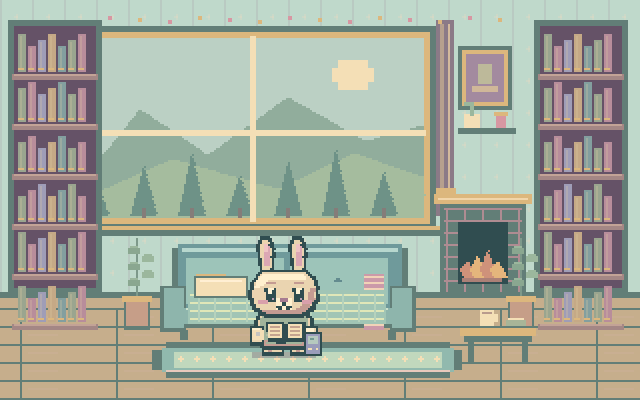
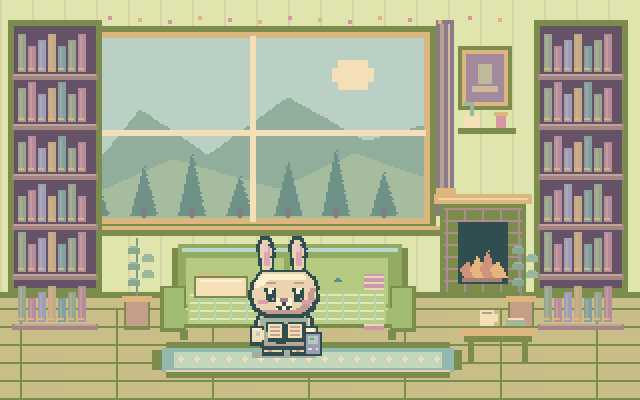
Warm DiaBuddy preview with sunny yellow and leafy green colors

diff --git a/diabuddy/dist/theme.css b/diabuddy/dist/theme.css
@@ -1,15 +1,18 @@
 /* DiaBuddy · meadow, sky and sun. Shared across child, parent and arcade UI. */
-:root{--ink:#254a50;--muted:#506a70;--purple:#287579;--green:#e3f1df;--line:#bfd6ce;--sage:#91bd9f;--teal:#287579;--sky:#d8ebf6;--cream:#fff9e9;--sun:#f4d383;--peach:#f3cead;--lavender:#e3dff0}
-body{background:radial-gradient(ellipse at 90% 0,#d9eff5,transparent 45%),#fbfaf1;color:var(--ink)}aside{background:linear-gradient(170deg,#dfefdc,#deedf1 70%,#fff0cf);border-color:var(--line)}
-.brand{display:flex;align-items:center;gap:10px;color:#235b61;font-size:25px;letter-spacing:-1px}.brandmark{width:36px;height:36px;image-rendering:pixelated;flex:none}.tagline{color:#435f65;font-size:12px;letter-spacing:0;margin-top:7px}.branddot{display:none}
-nav button{display:flex;align-items:center;gap:13px;border-radius:10px;color:#3c6068;min-height:48px;border:2px solid transparent}nav button.active,nav button[aria-current=page]{background:#c0dfce;color:#204f55;border-color:#62978c;box-shadow:inset 4px 0 #287579}nav button:hover{background:#fff9e9}.nav-icon{display:inline-block;width:23px;height:23px;flex:none}.avatar{background:#d3e9ed;color:#285b67;display:grid;place-items:center}.kind-note,.kind-note p,.profile{color:#49666c}.profile{border-color:var(--line)}
-h1,h2,h3,.card-title,.world-top strong,.fitting-copy h2,.product-copy h3,.arcade-header h2,.arcade-cover h2,dialog h2,.personal-range h2,.journal-layout .prompt,.connection h3{color:#28565f}p,.greeting p,.helper,.tiny,.field-label,.fitting-copy p,.product-copy p,.arcade-cover small,.arcade-header small,.arcade-cover b,.eyebrow,.timer-card p,.timer-card .card-title,.item-state,.owned-toggle,.product-copy small,.shop-banner p,.range-fields label,.logged-tags span,.entry h4{color:#50676e}
-.card{border:1px solid var(--line);border-radius:14px;box-shadow:3px 4px 0 #a2c1b52b;background:#fffdf5}.card p{line-height:1.7}.world-top{background:linear-gradient(100deg,#dfefdc,#dceef4)}.world-top small,.status,.status i,.world-bottom{color:#486a6c}.world-bottom,.activity-tray{background:#f6f5e8}.scene{background:#355c61}.scene-caption{background:#fff1cc;color:#365a60;border-color:#729a94}.pet-bubble{color:#365a60;border-color:#729a94}.bank{background:#ffe6a1;color:#664a22;border-color:#d5b36a;border-radius:10px}
-.primary{background:#287579;color:#fffef2;border-radius:9px;box-shadow:0 3px 0 #1a535a;font-weight:600}.primary:hover{background:#1f626c;filter:none}.primary:disabled{opacity:.6;cursor:not-allowed}.secondary,.tabs button,.activity-tray button,.choice{background:#f4f8ee;color:#305a64;border-color:#b5cfc7;border-radius:9px}.secondary:hover{background:#dceef0}.tabs .selected,.choice.selected,.activity-tray button.selected{background:#cae4da;color:#244e56;border-color:#568a7e}.text-link{color:#236c76;text-decoration:underline;text-underline-offset:3px}.timer-card{background:linear-gradient(125deg,#fff2cd,#e3f1dc);border-color:#d2d9a6}.notice{background:#fff2ce;color:#655332;border-color:#dbc084}
-.timer-card h2,.timer-card p{color:#4d6354}.shop-banner{background:linear-gradient(105deg,#d3ece1,#dcecf4 65%,#fff1c9)}.shop-banner span{color:#3c6970}.journal-history{background:#f5f8ee}.fitting-room,.pixel-product,.meal-card{background:#fff8e9}.fitting-room canvas{border-color:#648f89}.pixel-thumb{background:#dcebdc}.pixel-thumb span{background:#244f57;color:#fff3d1}.outfit-slots span,.logged-tags span{background:#e2eddf;color:#3d665b}.outfit-slots button{color:#315f62}.activity-tray button{min-height:44px}.meal-components{display:flex;gap:5px;flex-wrap:wrap;margin:12px 0}.meal-components span{border-radius:6px;background:#e1efdd;color:#385e52;padding:5px 7px;font-size:11px}.ai-tag{background:#deedf5;color:#345f70}.meal-heading p,.meal-ai-status{color:#50676e}.meal-examples{display:flex;flex-wrap:wrap;gap:6px}.meal-examples button{min-height:36px;color:#35626b;background:#edf3e7;border:1px solid #bfd3c2;border-radius:8px;padding:6px}.meal-input-row{flex-wrap:wrap}.meal-input-row input{min-width:0}.meal-result-inner{flex-wrap:wrap}.meal-result-inner canvas{max-width:100%;image-rendering:pixelated}.shared-meal small{color:#50676e}
-input:not([type=range]):not([type=checkbox]),textarea,select{background:#fffef5;color:#294f55;border-color:#b5cfc7;border-radius:8px}input[type=range],input[type=checkbox]{accent-color:#287579}.field-label input{display:block;width:100%;padding:10px;margin-top:7px}.range-fields input{color:#28565f;border-color:#adc9bd;background:#fffef5}.range-fields small{color:#50676e}.portal-switch,.portal-switch select{color:#315f62}.portal-switch select{background:#e3f0e3}.routine-note,.routine-log{color:#48675d!important}.routine-badge,.routine-trend div{background:#e4f1e2;color:#345c51}.routine-error,#range-error,.dex-error{color:#964622}.dex-note,.dex-timestamp{color:#50676e}.routine-grid>.card:nth-child(3n+2){border-top:4px solid #8dbdd1}.routine-grid>.card:nth-child(3n+1){border-top:4px solid #8fba9a}.routine-grid>.card:nth-child(3n){border-top:4px solid #e5ba73}
-#arcade-stage{background:#f6f8e9;border-color:#98bbb0;box-shadow:5px 5px #d9e5d5}.arcade-cover{background:#f9f7e8}.arcade-hud,.arcade-toolbar,.arcade-overlay,.arcade-overlay>div{color:#315760;background:#fffae9}.arcade-overlay h2{color:#28565f}.arcade-chapters button.selected{background:#d6e9dc;color:#315760}.arcade-tip,.arcade-score,.arcade-help{color:#50676e}.arcade-frame{border-color:#60847e}
-dialog{background:#fffcf0;border-color:#aacbc0}.close{color:#49666c}.breadcrumb b,.greeting .eyebrow{color:#37656b}footer{color:#50676e}#toast{background:#285f68}.progress{background:#d4e6d9}.progress div{background:#549a8b}.settings-connection{margin-top:22px}a:focus-visible,button:focus-visible,input:focus-visible,select:focus-visible,textarea:focus-visible{outline:3px solid #23748e;outline-offset:3px}
+:root{--ink:#354b2b;--muted:#59644b;--purple:#4f712e;--green:#e6efc8;--line:#c9d69d;--sage:#a6bf72;--teal:#4f712e;--sky:#f5ebad;--cream:#fffbea;--sun:#f3d46b;--peach:#f4df9c;--lavender:#e3dff0}
+body{background:radial-gradient(ellipse at 90% 0,#f6edb3,transparent 45%),#fbf9e9;color:var(--ink)}aside{background:linear-gradient(170deg,#e3edb5,#f4eaa9 70%,#fff0ac);border-color:var(--line)}
+.brand{display:flex;align-items:center;gap:10px;color:#42602d;font-size:25px;letter-spacing:-1px}.brandmark{width:36px;height:36px;image-rendering:pixelated;flex:none}.tagline{color:#53613e;font-size:12px;letter-spacing:0;margin-top:7px}.branddot{display:none}
+nav button{display:flex;align-items:center;gap:13px;border-radius:10px;color:#52653b;min-height:48px;border:2px solid transparent}nav button.active,nav button[aria-current=page]{background:#dbe99c;color:#3c5425;border-color:#8ba34d;box-shadow:inset 4px 0 #4f712e}nav button:hover{background:#fffbea}.nav-icon{display:inline-block;width:23px;height:23px;flex:none}.avatar{background:#f5e8a6;color:#536a30;display:grid;place-items:center}.kind-note,.kind-note p,.profile{color:#5d6849}.profile{border-color:var(--line)}
+h1,h2,h3,.card-title,.world-top strong,.fitting-copy h2,.product-copy h3,.arcade-header h2,.arcade-cover h2,dialog h2,.personal-range h2,.journal-layout .prompt,.connection h3{color:#485f2c}p,.greeting p,.helper,.tiny,.field-label,.fitting-copy p,.product-copy p,.arcade-cover small,.arcade-header small,.arcade-cover b,.eyebrow,.timer-card p,.timer-card .card-title,.item-state,.owned-toggle,.product-copy small,.shop-banner p,.range-fields label,.logged-tags span,.entry h4{color:#5d674b}
+.card{border:1px solid var(--line);border-radius:14px;box-shadow:3px 4px 0 #a2c1b52b;background:#fffdf5}.card p{line-height:1.7}.world-top{background:linear-gradient(100deg,#e3edb5,#f8edb5)}.world-top small,.status,.status i,.world-bottom{color:#5c7046}.world-bottom,.activity-tray{background:#f5f5d8}.scene{background:#53683e}.scene-caption{background:#fff0a8;color:#566537;border-color:#91a35c}.pet-bubble{color:#566537;border-color:#91a35c}.bank{background:#f9df79;color:#664a22;border-color:#c5a746;border-radius:10px}
+.primary{background:#4f712e;color:#fffef2;border-radius:9px;box-shadow:0 3px 0 #344b21;font-weight:600}.primary:hover{background:#405d25;filter:none}.primary:disabled{opacity:.6;cursor:not-allowed}.secondary,.tabs button,.activity-tray button,.choice{background:#f3f7da;color:#4d6334;border-color:#c0d093;border-radius:9px}.secondary:hover{background:#e6efbf}.tabs .selected,.choice.selected,.activity-tray button.selected{background:#e0ecaf;color:#40572b;border-color:#8aa04f}.text-link{color:#526f29;text-decoration:underline;text-underline-offset:3px}.timer-card{background:linear-gradient(125deg,#fff0a3,#e5edb8);border-color:#d2d9a6}.notice{background:#fff0ad;color:#655332;border-color:#dbc084}
+.timer-card h2,.timer-card p{color:#4d6354}.shop-banner{background:linear-gradient(105deg,#dfeab6,#f4e9a8 65%,#fff0a3)}.shop-banner span{color:#59703d}.journal-history{background:#f6f6db}.fitting-room,.pixel-product,.meal-card{background:#fffae0}.fitting-room canvas{border-color:#8c9d51}.pixel-thumb{background:#e2ecb5}.pixel-thumb span{background:#445e2e;color:#fff3d1}.outfit-slots span,.logged-tags span{background:#eaf0ca;color:#56733b}.outfit-slots button{color:#536a37}.activity-tray button{min-height:44px}.meal-components{display:flex;gap:5px;flex-wrap:wrap;margin:12px 0}.meal-components span{border-radius:6px;background:#edf3ca;color:#536d35;padding:5px 7px;font-size:11px}.ai-tag{background:#f6e9a7;color:#655d2d}.meal-heading p,.meal-ai-status{color:#5d674b}.meal-examples{display:flex;flex-wrap:wrap;gap:6px}.meal-examples button{min-height:36px;color:#536f36;background:#edf3ca;border:1px solid #bfd3c2;border-radius:8px;padding:6px}.meal-input-row{flex-wrap:wrap}.meal-input-row input{min-width:0}.meal-result-inner{flex-wrap:wrap}.meal-result-inner canvas{max-width:100%;image-rendering:pixelated}.shared-meal small{color:#5d674b}
+input:not([type=range]):not([type=checkbox]),textarea,select{background:#fffef5;color:#294f55;border-color:#c0d093;border-radius:8px}input[type=range],input[type=checkbox]{accent-color:#4f712e}.field-label input{display:block;width:100%;padding:10px;margin-top:7px}.range-fields input{color:#485f2c;border-color:#b8cb89;background:#fffef5}.range-fields small{color:#5d674b}.portal-switch,.portal-switch select{color:#536a37}.portal-switch select{background:#e6efbe}.routine-note,.routine-log{color:#48675d!important}.routine-badge,.routine-trend div{background:#e4f1e2;color:#345c51}.routine-error,#range-error,.dex-error{color:#964622}.dex-note,.dex-timestamp{color:#5d674b}.routine-grid>.card:nth-child(3n+2){border-top:4px solid #d2c268}.routine-grid>.card:nth-child(3n+1){border-top:4px solid #9eb769}.routine-grid>.card:nth-child(3n){border-top:4px solid #e7c55d}
+#arcade-stage{background:#f6f8e9;border-color:#98bbb0;box-shadow:5px 5px #d9e5d5}.arcade-cover{background:#f9f7e8}.arcade-hud,.arcade-toolbar,.arcade-overlay,.arcade-overlay>div{color:#315760;background:#fffae9}.arcade-overlay h2{color:#485f2c}.arcade-chapters button.selected{background:#d6e9dc;color:#315760}.arcade-tip,.arcade-score,.arcade-help{color:#5d674b}.arcade-frame{border-color:#60847e}
+dialog{background:#fffcf0;border-color:#bdcf90}.close{color:#5d6849}.breadcrumb b,.greeting .eyebrow{color:#5a713d}footer{color:#5d674b}#toast{background:#4d6833}.progress{background:#d4e6d9}.progress div{background:#549a8b}.settings-connection{margin-top:22px}a:focus-visible,button:focus-visible,input:focus-visible,select:focus-visible,textarea:focus-visible{outline:3px solid #5d742f;outline-offset:3px}
 @media(max-width:800px){aside{flex-wrap:wrap;gap:5px;padding:12px}.brand{font-size:23px}.tagline{display:block;width:100%;order:1;font-size:11px;margin:0 0 4px 46px}nav{order:2;display:flex;width:100%;margin:5px 0 0;overflow-x:auto;gap:5px}nav button{justify-content:center;padding:9px;min-width:46px}nav button span{display:none}.brandmark{width:32px;height:32px}.header-right{gap:8px}.meal-input-row input{flex:1 1 180px}.meal-input-row button{flex:1 1 140px}}
 /* Arcade selectors follow the existing shared game shell. */
-.arcade-viewport{background:#365e64;border-color:#60847e}.arcade-stats,.arcade-message{color:#446870}.arcade-piece-tray>button,.arcade-levels button{background:#eef4df;border-color:#b4cdbd;color:#315b61}.arcade-levels button.selected,.arcade-piece-tray>button.selected{background:#c8e3d5;border-color:#608b7e;color:#244e56}#arcade-overlay{background:#244f5866}#arcade-overlay>div{background:#fffaeaf5;border-color:#729e92;box-shadow:4px 4px #305b6344;color:#335b63}#arcade-overlay h3{color:#28565f}#arcade-overlay p,#arcade-overlay small{color:#50676e}.arcade-stars{color:#967026}
+.arcade-viewport{background:#365e64;border-color:#60847e}.arcade-stats,.arcade-message{color:#446870}.arcade-piece-tray>button,.arcade-levels button{background:#eef4df;border-color:#b4cdbd;color:#315b61}.arcade-levels button.selected,.arcade-piece-tray>button.selected{background:#c8e3d5;border-color:#608b7e;color:#40572b}#arcade-overlay{background:#244f5866}#arcade-overlay>div{background:#fffaeaf5;border-color:#729e92;box-shadow:4px 4px #305b6344;color:#335b63}#arcade-overlay h3{color:#485f2c}#arcade-overlay p,#arcade-overlay small{color:#5d674b}.arcade-stars{color:#967026}
+
+/* Sunroom finish: yellow surfaces, leafy selection states and dark olive text. */
+body{background:radial-gradient(ellipse at 90% 0,#f8eba3,transparent 52%),#fbf9e9}aside{background:linear-gradient(165deg,#e4edb6,#edf0c6 55%,#fff0a6)}.world-top{background:linear-gradient(100deg,#e1ebb0,#fff0af)}.timer-card{background:linear-gradient(125deg,#fff0a3,#e5edb8)}.shop-banner{background:linear-gradient(105deg,#dfeab6,#f8edb5 65%,#ffe79b)}.bank{background:#f4d56c;color:#5d4c20}.scene-caption{background:#fff0a8;color:#4e6132;border-color:#91a35c}.card{box-shadow:3px 4px 0 #a9b96c2b}.parent-medical-notice{background:#f6f4d9;border-color:#c9d69d}.parent-guidance summary,.parent-guidance a{color:#526b32}.routine-grid>.card:nth-child(3n+2){border-top-color:#dfc75b}.arcade-viewport{background:#53683e;border-color:#91a35c}.arcade-stats,.arcade-message{color:#5c7046}.arcade-piece-tray>button,.arcade-levels button{background:#f3f4cf;border-color:#c0d093;color:#4d6334}.arcade-levels button.selected,.arcade-piece-tray>button.selected{background:#e0ecaf;border-color:#8aa04f;color:#40572b}#arcade-overlay{background:#3c542566}#arcade-overlay>div{background:#fff9dff5;border-color:#91a35c;color:#536a37}.progress div{background:#91ac50}.outfit-slots span,.meal-components span{background:#edf3ca;color:#536d35}

diff --git a/diabuddy/dist/arcade/art.js b/diabuddy/dist/arcade/art.js
@@ -1,20 +1,20 @@
 (function(root){'use strict';
-const P={ink:'#2c4b54',shadow:'#4b7076',paper:'#f7e8bf',light:'#fff3d5',rose:'#e6b38b',lilac:'#91b9cc',mint:'#a3c79e',leaf:'#578575',gold:'#e3bd70',water:'#83b6cc'};
+const P={ink:'#3e522e',shadow:'#5a703d',paper:'#f7e8bf',light:'#fff3d5',rose:'#e6b38b',lilac:'#c6ce81',mint:'#afc47b',leaf:'#578575',gold:'#e8c65c',water:'#83b6cc'};
 const colors=['#8db8d0','#98bf9d','#e0ba75','#e7b294','#a3c6d6','#d6cd87','#b4acd0'];
 const glyphs={A:[14,17,17,31,17,17,17],B:[30,17,17,30,17,17,30],C:[14,17,16,16,16,17,14],D:[30,17,17,17,17,17,30],E:[31,16,16,30,16,16,31],F:[31,16,16,30,16,16,16],G:[14,17,16,23,17,17,15],H:[17,17,17,31,17,17,17],I:[14,4,4,4,4,4,14],J:[7,2,2,2,18,18,12],K:[17,18,20,24,20,18,17],L:[16,16,16,16,16,16,31],M:[17,27,21,21,17,17,17],N:[17,25,21,19,17,17,17],O:[14,17,17,17,17,17,14],P:[30,17,17,30,16,16,16],Q:[14,17,17,17,21,18,13],R:[30,17,17,30,20,18,17],S:[15,16,16,14,1,1,30],T:[31,4,4,4,4,4,4],U:[17,17,17,17,17,17,14],V:[17,17,17,17,17,10,4],W:[17,17,17,21,21,21,10],X:[17,17,10,4,10,17,17],Y:[17,17,10,4,4,4,4],Z:[31,1,2,4,8,16,31],'0':[14,17,19,21,25,17,14],'1':[4,12,4,4,4,4,14],'2':[14,17,1,2,4,8,31],'3':[30,1,1,14,1,1,30],'4':[2,6,10,18,31,2,2],'5':[31,16,16,30,1,1,30],'6':[14,16,16,30,17,17,14],'7':[31,1,2,4,8,8,8],'8':[14,17,17,14,17,17,14],'9':[14,17,17,15,1,1,14],'/':[1,2,2,4,8,8,16],'-':[0,0,0,31,0,0,0],'.':[0,0,0,0,0,6,6]};
 function tools(c){const r=(x,y,w,h,col)=>{c.fillStyle=col;c.fillRect(Math.round(x),Math.round(y),Math.round(w),Math.round(h))};return{r,box:(x,y,w,h,col,edge=P.ink)=>{r(x,y,w,h,edge);r(x+2,y+2,w-4,h-4,col)},text:(str,x,y,size=10,col=P.ink)=>{const scale=size>=14?2:1;let cursor=Math.round(x);for(const letter of String(str).toUpperCase()){const glyph=glyphs[letter];if(glyph)glyph.forEach((bits,row)=>{for(let bit=0;bit<5;bit++)if(bits&(1<<(4-bit)))r(cursor+bit*scale,y-7*scale+row*scale,scale,scale,col)});cursor+=6*scale}}}}
 function flower(r,x,y,color=P.rose){r(x,y,2,10,P.leaf);r(x-3,y-3,8,4,color);r(x-1,y-5,4,8,color);r(x,y-2,2,2,P.gold)}
-function backdrop(c,type,t=0){const {r,box,text}=tools(c);r(0,0,480,320,type==='bridge'?'#bccfc0':'#e6edda');r(0,217,480,103,type==='bridge'?'#9bad9c':'#a3bfb1');for(let y=232;y<320;y+=21){r(0,y,480,1,'#9b7f9333');for(let x=(y%3)*11;x<480;x+=69)r(x,y,1,21,'#9b7f9333')}
+function backdrop(c,type,t=0){const {r,box,text}=tools(c);r(0,0,480,320,type==='bridge'?'#bccfc0':'#f5efc3');r(0,217,480,103,type==='bridge'?'#9bad9c':'#b8c68b');for(let y=232;y<320;y+=21){r(0,y,480,1,'#9b7f9333');for(let x=(y%3)*11;x<480;x+=69)r(x,y,1,21,'#9b7f9333')}
 // Conservatory panes, cloud layers and hanging vines.
-box(17,22,446,179,'#bdd2cb','#587f79');for(let x=22;x<460;x+=55){r(x,25,2,169,'#efe0c8');r(x+2,25,1,169,'#a993a0')}r(20,84,440,3,'#efe0c8');r(20,144,440,3,'#efe0c8');r(20,197,440,4,'#d2b499');r(62,48,31,6,'#eef0d9');r(69,44,17,4,'#eef0d9');r(318,50,38,6,'#eef0d9');r(329,45,19,5,'#eef0d9');r(405,42,19,17,P.paper);r(402,47,25,7,P.paper);
+box(17,22,446,179,'#bdd2cb','#73894b');for(let x=22;x<460;x+=55){r(x,25,2,169,'#efe0c8');r(x+2,25,1,169,'#a993a0')}r(20,84,440,3,'#efe0c8');r(20,144,440,3,'#efe0c8');r(20,197,440,4,'#d2b499');r(62,48,31,6,'#eef0d9');r(69,44,17,4,'#eef0d9');r(318,50,38,6,'#eef0d9');r(329,45,19,5,'#eef0d9');r(405,42,19,17,P.paper);r(402,47,25,7,P.paper);
 for(let i=0;i<33;i++){const x=20+i*14,y=16+(i%4)*3;r(x,y,7,2,P.leaf);r(x+2,y-2,4,6,i%2?P.mint:'#8eab8d');if(i%6===0)flower(r,x,y+9,P.rose)}for(let i=0;i<19;i++){const x=26+i*24;r(x,8+(i%3)*2,2,2,i%2?P.gold:P.rose)}
 for(let x of [28,449]){box(x-9,203,24,27,'#c29c89',P.shadow);r(x-11,200,28,5,P.gold);r(x+2,164,2,36,P.leaf);for(let i=0;i<5;i++)r(x-7+(i%2)*10,168+i*6,11,4,i%2?P.mint:'#85a38e');flower(r,x,166,'#cfb4d6')}
 // A drawer bench, books, woven rug, and art supplies.
-box(58,264,365,21,'#a3bdac',P.shadow);r(61,266,359,2,P.paper);for(let x=62;x<420;x+=70){r(x,273,63,1,'#68978b');r(x+28,275,8,2,P.gold)}for(let x=69;x<417;x+=12)r(x,288,5,1,'#dfc4b5');r(67,294,350,1,'#dfc4b5');box(361,235,24,13,P.lilac,P.shadow);r(364,237,17,1,P.paper);r(360,247,27,4,P.gold);box(393,236,13,19,P.paper,P.shadow);r(396,240,7,2,P.mint);r(400,225,2,13,P.shadow);r(398,222,5,5,P.rose);text('DiaBuddy',350,309,8,'#4b7076');if(type==='block'){text('THE PATCHWORK CONSERVATORY',78,42,10,P.shadow)}
+box(58,264,365,21,'#b4c68c',P.shadow);r(61,266,359,2,P.paper);for(let x=62;x<420;x+=70){r(x,273,63,1,'#879f54');r(x+28,275,8,2,P.gold)}for(let x=69;x<417;x+=12)r(x,288,5,1,'#dfc4b5');r(67,294,350,1,'#dfc4b5');box(361,235,24,13,P.lilac,P.shadow);r(364,237,17,1,P.paper);r(360,247,27,4,P.gold);box(393,236,13,19,P.paper,P.shadow);r(396,240,7,2,P.mint);r(400,225,2,13,P.shadow);r(398,222,5,5,P.rose);text('DiaBuddy',350,309,8,'#5a703d');if(type==='block'){text('THE PATCHWORK CONSERVATORY',78,42,10,P.shadow)}
 if(type==='bridge'){r(0,0,480,320,'#c6d2bd');r(0,0,480,65,'#d7dcca');for(let i=0;i<16;i++){const x=i*32,h=19+(i*7)%25;r(x,64-h,33,h,'#a7beaa');r(x+7,56-h,18,8,'#a7beaa')}r(0,64,480,200,'#8faebe');for(let i=0;i<30;i++){const x=(i*31+Math.floor(t/150))%480,y=73+(i*17)%176;r(x,y,14,1,'#c4dad2');if(i%5===0){r(x+5,y+2,4,1,'#c4dad2')}}r(0,64,101,200,'#8fa68b');r(379,64,101,200,'#8fa68b');for(let x of [11,45,411,451]){r(x+9,16,7,61,'#8e7b78');r(x+10,18,2,53,'#b99c85');r(x,17,28,25,'#91ab94');r(x-5,29,37,16,'#91ab94');r(x+3,19,17,3,'#c3cda2');r(x-2,38,28,2,'#76978b')}for(let i=0;i<75;i++){const x=i%2?10+(i*23)%80:393+(i*17)%77,y=82+(i*19)%170;r(x,y,3,1,'#aabd9d');r(x+1,y-2,1,3,'#aabd9d');if(i%6===0){r(x-1,y+4,4,2,'#b6acaa');r(x,y+3,2,1,'#d9c4b2')}if(i%13===0)flower(r,x,y-3,'#d4adc0')}for(let i=0;i<12;i++){const x=12+(i%2)*45,y=90+Math.floor(i/2)*29;r(x,y,13,6,'#b8b4a0');r(x+2,y,9,1,'#d8cfb6');const xx=406+(i%2)*34;r(xx,y+3,12,5,'#b8b4a0');r(xx+2,y+3,8,1,'#d8cfb6')}for(let x of [14,443]){r(x+6,242,3,21,P.shadow);box(x,226,15,19,P.gold,P.shadow);r(x+3,229,9,12,P.paper);r(x+6,231,3,8,'#edc688')}box(128,22,227,29,P.paper,P.shadow);for(let x of [8,27,58,397,425,459]){r(x,119,3,12,P.leaf);flower(r,x,123,'#d5b6c9')}text('THE WILLOW CROSSING',150,42,10,P.shadow)}
 if(type==='sort'){text('THE LITTLE POTION GARDEN',99,42,10,P.shadow);for(let x=80;x<420;x+=30){r(x,61,6,8,P.lilac);r(x-1,69,8,2,P.paper)}r(72,73,340,3,P.shadow)}
 }
-function patch(c,x,y,size,color,index=0,alpha=1){const {r}=tools(c);c.save();c.globalAlpha=alpha;r(x+2,y+size-2,size-1,3,'#59436344');r(x,y,size,size,P.ink);r(x+1,y+1,size-2,size-2,color);r(x+2,y+2,size-4,2,'#fff0d577');r(x+2,y+3,2,size-6,'#fff0d555');r(x+size-3,y+3,2,size-4,'#4b707655');r(x+3,y+size-3,size-6,2,'#4b707655');for(let xx=5;xx<size-3;xx+=6){r(x+xx,y+5,2,1,'#fff0d577');r(x+xx+1,y+6,1,2,'#fff0d577')}if(size>=20){const xx=x+Math.floor(size/2),yy=y+Math.floor(size/2);r(xx-3,yy,7,1,'#fff0d555');r(xx,yy-3,1,7,'#fff0d555');r(xx-1,yy-1,3,3,index%2?'#8c7b9d77':'#efd5b577')}c.restore()}
+function patch(c,x,y,size,color,index=0,alpha=1){const {r}=tools(c);c.save();c.globalAlpha=alpha;r(x+2,y+size-2,size-1,3,'#59436344');r(x,y,size,size,P.ink);r(x+1,y+1,size-2,size-2,color);r(x+2,y+2,size-4,2,'#fff0d577');r(x+2,y+3,2,size-6,'#fff0d555');r(x+size-3,y+3,2,size-4,'#5a703d55');r(x+3,y+size-3,size-6,2,'#5a703d55');for(let xx=5;xx<size-3;xx+=6){r(x+xx,y+5,2,1,'#fff0d577');r(x+xx+1,y+6,1,2,'#fff0d577')}if(size>=20){const xx=x+Math.floor(size/2),yy=y+Math.floor(size/2);r(xx-3,yy,7,1,'#fff0d555');r(xx,yy-3,1,7,'#fff0d555');r(xx-1,yy-1,3,3,index%2?'#8c7b9d77':'#efd5b577')}c.restore()}
 function pet(c,x,y,eq={},action='Reading',frame=0){if(typeof root.pixelCharacter==='function'){c.save();c.translate(x,y);root.pixelCharacter(c,eq.Characters||'bunny',eq,action,frame);c.restore()}else{tools(c).text('COMPANION ART UNAVAILABLE',x,y,8,P.shadow)}}
 function baseCanvas(canvas){const c=canvas.getContext('2d');c.imageSmoothingEnabled=false;c.setTransform(canvas.width/480,0,0,canvas.height/320,0,0);c.clearRect(0,0,480,320);return c}
 function block(c,m,ui={},t=0){backdrop(c,'block',t);const {r,box,text}=tools(c),size=30,l=m.level,x0=Math.round(240-l.w*size/2),y0=68,occupied=root.ArcadeGames.block.occupied(m);box(x0-8,y0-8,l.w*size+16,l.h*size+16,'#87a9a4',P.shadow);for(let y=0;y<l.h;y++)for(let x=0;x<l.w;x++){const xx=x0+x*size,yy=y0+y*size;if(l.blocked.some(p=>p[0]===x&&p[1]===y)){patch(c,xx,yy,size,'#a29b9e');r(xx+4,yy+14,18,2,'#807c89');continue}r(xx,yy,size-1,size-1,'#cbd9c2');r(xx+2,yy+2,size-5,size-5,'#f0ebcd');r(xx+5,yy+6,1,1,'#8eac9b');const id=occupied[x+','+y];if(id){const p=l.pieces.find(p=>p.id===id);patch(c,xx,yy,size,colors[p.color%colors.length],p.color)}if(l.mark&&l.mark.x===x&&l.mark.y===y)flower(r,xx+15,yy+14,colors[l.pieces.findIndex(p=>p.id===l.mark.piece)])}

diff --git a/diabuddy/dist/pixel-engine.js b/diabuddy/dist/pixel-engine.js
@@ -59,7 +59,7 @@ if(action==='Watering plants'){r(7,leftY+2,11,8,I);r(8,leftY+3,9,6,'#8fb5ae');r(
 if(action==='Painting'||eq.Handheld){r(46,rightY-13,2,16,'#bd9e89');r(45,rightY-16,4,5,'#b59bc3');r(45,rightY-17,3,2,P.rose)}
 if(sleep){r(19,47,26,10,'#91afa2');for(let x=20;x<45;x+=4)r(x,48,1,8,'#c8d1b0');r(49,16-wave,5,1,P.cream);r(52,17-wave,1,1,P.cream);r(49,18-wave,5,1,P.cream)}
 if(celebrate){for(let i=0;i<5;i++){let xx=6+i*12,yy=10+(frame+i*3)%15;r(xx,yy,3,1,P.gold);r(xx+1,yy-1,1,3,P.gold)}}c.restore()}
-function paintWorld(canvas,world='cozy',eq={},glucose='range',activity='Idle',still=false,closeup=false,now=Date.now(),meal=null){const c=canvas.getContext('2d');c.imageSmoothingEnabled=false;c.clearRect(0,0,canvas.width,canvas.height);const scale=Math.max(1,Math.floor(Math.min(canvas.width/320,canvas.height/200)));c.save();c.translate(Math.floor((canvas.width-320*scale)/2),Math.floor((canvas.height-200*scale)/2));c.scale(scale,scale);const {r,poly}=pixelTools(c),P=PixelPalette;const theme=eq.Themes||'pastel';const dark=['academia','nighttheme','arcade'].includes(theme)||['night','space','cyber'].includes(world);let wall=dark?'#354c59':'#bfd9cb',floor=dark?'#5c7074':'#c6ae8c',wood=dark?'#293e49':'#627e77';if(theme==='cottagecore'){wall='#b6b79e';floor='#af927f';wood='#796b70'}if(theme==='nighttheme'){wall='#656880';floor='#77738c';wood='#49475f'}if(world==='sunset')wall='#d0a3a1';if(world==='snow')wall='#b0bbc8';if(world==='candy')wall='#dcb5c9';r(0,0,320,200,wall);r(0,147,320,53,floor);r(0,146,320,3,wood);for(let y=154;y<200;y+=9){r(0,y,320,1,wood);for(let x=(y%3)*10;x<320;x+=48){r(x,y,1,9,wood);r(x+4,y+4,15,1,'#d3b0a044')}}for(let x=0;x<320;x+=16){r(x,0,1,146,'#8b6c8622');for(let y=8;y<146;y+=16){r(x+7,y,2,1,'#eed9c044');r(x+8,y-1,1,3,'#eed9c044')}}
+function paintWorld(canvas,world='cozy',eq={},glucose='range',activity='Idle',still=false,closeup=false,now=Date.now(),meal=null){const c=canvas.getContext('2d');c.imageSmoothingEnabled=false;c.clearRect(0,0,canvas.width,canvas.height);const scale=Math.max(1,Math.floor(Math.min(canvas.width/320,canvas.height/200)));c.save();c.translate(Math.floor((canvas.width-320*scale)/2),Math.floor((canvas.height-200*scale)/2));c.scale(scale,scale);const {r,poly}=pixelTools(c),P=PixelPalette;const theme=eq.Themes||'pastel';const dark=['academia','nighttheme','arcade'].includes(theme)||['night','space','cyber'].includes(world);let wall=dark?'#354c59':'#e0e5ad',floor=dark?'#5c7074':'#c9bd88',wood=dark?'#293e49':'#7c8c4d';if(theme==='cottagecore'){wall='#b6b79e';floor='#af927f';wood='#796b70'}if(theme==='nighttheme'){wall='#656880';floor='#77738c';wood='#49475f'}if(world==='sunset')wall='#d0a3a1';if(world==='snow')wall='#b0bbc8';if(world==='candy')wall='#dcb5c9';r(0,0,320,200,wall);r(0,147,320,53,floor);r(0,146,320,3,wood);for(let y=154;y<200;y+=9){r(0,y,320,1,wood);for(let x=(y%3)*10;x<320;x+=48){r(x,y,1,9,wood);r(x+4,y+4,15,1,'#d3b0a044')}}for(let x=0;x<320;x+=16){r(x,0,1,146,'#8b6c8622');for(let y=8;y<146;y+=16){r(x+7,y,2,1,'#eed9c044');r(x+8,y-1,1,3,'#eed9c044')}}
 const frame=still||window.matchMedia?.('(prefers-reduced-motion: reduce)').matches?0:Math.floor(now/125)%8;
 // Architectural wall panels, panoramic view, curtains and exterior layers.
 r(35,13,183,102,wood);r(38,16,177,96,P.gold);r(41,19,171,90,dark?'#4f5274':'#bbd2cd');const beach=world==='beach',city=['cyber','rooftop'].includes(world),space=world==='space';
@@ -75,8 +75,8 @@ r(229,23,27,32,wood);r(231,25,23,28,P.gold);r(233,27,19,24,'#a38a9f');r(239,32,7
 r(220,100,43,47,wood);for(let y=104;y<145;y+=6){r(222,y,39,1,'#af8c92');for(let x=223+(y%2)*4;x<260;x+=9)r(x,y,1,6,'#af8c92')}r(229,111,25,31,P.ink);r(217,97,49,5,P.gold);r(219,99,45,1,'#f1d5aa');if(world==='cafe'){r(226,108,31,18,'#8d9d9b');r(230,111,22,10,'#4f5166');r(236,126,12,7,P.cream)}else{for(let i=0;i<4;i++){const h=9+(frame+i*3)%9;poly([[232+i*5,139],[230+i*5,134],[234+i*5,139-h],[238+i*5,136],[239+i*5,139]],i%2?'#e4b57c':'#cf927a')}r(231,139,20,2,'#ab8077')}
 // Upholstered sofa, pillows, patchwork throw and patterned rug.
 r(83,171,142,18,wood);r(76,175,155,10,wood);r(81,174,146,12,'#91b9ae');r(87,176,134,8,'#c1d8bd');for(let x=89;x<220;x+=8){r(x,179,3,1,P.cream);r(x+1,178,1,3,P.cream)}r(83,185,142,1,'#e8c9bc');
-r(86,124,118,39,wood);r(89,122,112,38,'#6f9a9b');r(91,124,108,2,'#b7d7ce');r(93,129,49,23,'#9dc4b9');r(145,129,49,23,'#9dc4b9');for(let x of [115,168]){r(x,139,2,2,'#638b8f');r(x-1,140,4,1,'#638b8f')}r(80,143,13,23,wood);r(82,144,10,20,'#8eb5ac');r(195,143,13,23,wood);r(196,144,10,20,'#8eb5ac');r(92,154,104,8,'#8eb5ac');r(93,154,101,1,'#cce1cc');r(90,165,4,5,wood);r(194,165,4,5,wood);r(98,137,15,15,P.gold);r(100,139,11,11,P.cream);r(104,142,3,5,P.rose);r(103,143,5,3,P.rose);r(182,137,10,28,'#cb9aa9');for(let y=138;y<163;y+=3)r(182,y,10,1,'#f1d3b7');
-if(world==='cozy'){r(94,145,99,17,'#a1c5b5');for(let y=147;y<161;y+=4)r(95,y,97,1,'#e0e7b8');for(let x=99;x<192;x+=8)r(x,147,1,14,'#b5d2bc');r(97,138,27,11,wood);r(98,139,25,9,P.cream);r(100,140,21,1,'#ffefd3')}
+r(86,124,118,39,wood);r(89,122,112,38,'#93aa63');r(91,124,108,2,'#b7d7ce');r(93,129,49,23,'#b4ca80');r(145,129,49,23,'#b4ca80');for(let x of [115,168]){r(x,139,2,2,'#638b8f');r(x-1,140,4,1,'#638b8f')}r(80,143,13,23,wood);r(82,144,10,20,'#a1bb72');r(195,143,13,23,wood);r(196,144,10,20,'#a1bb72');r(92,154,104,8,'#a1bb72');r(93,154,101,1,'#cce1cc');r(90,165,4,5,wood);r(194,165,4,5,wood);r(98,137,15,15,P.gold);r(100,139,11,11,P.cream);r(104,142,3,5,P.rose);r(103,143,5,3,P.rose);r(182,137,10,28,'#cb9aa9');for(let y=138;y<163;y+=3)r(182,y,10,1,'#f1d3b7');
+if(world==='cozy'){r(94,145,99,17,'#bacd86');for(let y=147;y<161;y+=4)r(95,y,97,1,'#e0e7b8');for(let x=99;x<192;x+=8)r(x,147,1,14,'#b5d2bc');r(97,138,27,11,wood);r(98,139,25,9,P.cream);r(100,140,21,1,'#ffefd3')}
 // Each selected world has distinct scene details, not just a new name.
 if(world==='library'){r(50,22,55,118,'#5a4560');for(let yy=27;yy<136;yy+=23){r(52,yy+17,51,3,P.gold);for(let xx=55;xx<100;xx+=7){r(xx,yy+3,5,14,['#a97379','#899d95','#c49e77','#797c99'][(xx+yy)%4]);r(xx+1,yy+4,1,10,P.cream)}}r(106,22,4,117,P.gold)}
 if(world==='garden'){r(44,21,6,119,'#7d9d80');r(209,21,6,119,'#7d9d80');for(let xx=45;xx<212;xx+=14){r(xx,24+(xx%3)*4,4,18,P.mint);r(xx-2,37+(xx%3)*4,8,4,P.mint);r(xx,37+(xx%3)*4,3,3,P.rose)}}

diff --git a/diabuddy/dist/index.html b/diabuddy/dist/index.html
@@ -1,3 +1,3 @@
-<!doctype html><html lang="en"><head><meta charset="UTF-8"><meta name="viewport" content="width=device-width,initial-scale=1"><meta name="application-name" content="DiaBuddy"><meta name="theme-color" content="#287579"><meta name="description" content="DiaBuddy — a little T1D friend, everyday. Cozy companions, creativity, and play."><link rel="icon" href="assets/diabuddy-logo.svg" type="image/svg+xml"><title>DiaBuddy — a little T1D friend, everyday</title><link rel="preconnect" href="https://fonts.googleapis.com"><link href="https://fonts.googleapis.com/css2?family=DM+Sans:wght@400;500;600;700&family=Space+Grotesk:wght@400;500;600;700&display=swap" rel="stylesheet"><link rel="stylesheet" href="style.css"><link rel="stylesheet" href="routine.css"><link rel="stylesheet" href="arcade/arcade.css"><link rel="stylesheet" href="theme.css"></head><body>
+<!doctype html><html lang="en"><head><meta charset="UTF-8"><meta name="viewport" content="width=device-width,initial-scale=1"><meta name="application-name" content="DiaBuddy"><meta name="theme-color" content="#4f712e"><meta name="description" content="DiaBuddy — a little T1D friend, everyday. Cozy companions, creativity, and play."><link rel="icon" href="assets/diabuddy-logo.svg" type="image/svg+xml"><title>DiaBuddy — a little T1D friend, everyday</title><link rel="preconnect" href="https://fonts.googleapis.com"><link href="https://fonts.googleapis.com/css2?family=DM+Sans:wght@400;500;600;700&family=Space+Grotesk:wght@400;500;600;700&display=swap" rel="stylesheet"><link rel="stylesheet" href="style.css"><link rel="stylesheet" href="routine.css"><link rel="stylesheet" href="arcade/arcade.css"><link rel="stylesheet" href="theme.css"></head><body>
 <aside><a class="brand" href="#home"><img class="brandmark" src="assets/diabuddy-logo.svg" alt=""> DiaBuddy</a><div class="tagline">a little T1D friend, everyday</div><nav><button data-page="home" class="active">⌂ <span>My little world</span></button><button data-page="wardrobe">♧ <span>Wardrobe & shop</span></button><button data-page="games">♙ <span>Mini games</span></button><button data-page="reminders">♧ <span>Meal reminders</span></button></nav><div class="aside-bottom"><div class="kind-note">✧<p>Some days are a lot.<br>You don’t have to do them alone.</p></div><button class="profile" id="profile"><span class="avatar">m</span><span>Your cozy corner<small>Made for your everyday</small></span><b>↗</b></button></div></aside>
 <main><header><div class="breadcrumb">YOUR COZY CORNER <span> / </span> <b id="page-label">MY LITTLE WORLD</b></div><div class="header-right"><label class="portal-switch">Portal <select id="portal-select" aria-label="Choose portal"><option value="child">Child</option><option value="parent">Parent</option></select></label><button class="demo-pill" id="demo-open"><i></i> Demo mode ⓘ</button><button class="bank" data-page="wardrobe"><span>✦</span> <b id="coins">240</b> coins</button></div></header><div id="routine-child"></div><div id="routine-parent" hidden></div><div id="content"></div><footer>A little care goes a long way. <span>Made with a little extra heart ♡</span></footer></main><div id="toast" role="status"></div><dialog id="modal"><button class="close" aria-label="Close">×</button><div id="modal-content"></div></dialog><script src="worlds.js"></script><script src="meal-ai.js"></script><script src="meal-art.js"></script><script src="companion.js"></script><script src="expansion.js"></script><script src="pixel-engine.js"></script><script src="dexcom.js"></script><script src="education.js"></script><script src="arcade/core.js"></script><script src="arcade/block.js"></script><script src="arcade/bridge.js"></script><script src="arcade/sort.js"></script><script src="arcade/art.js"></script><script src="arcade/ui.js"></script><script src="app.js"></script><script src="family-rewards.js"></script><script src="routine.js"></script><script src="reminders.js"></script><script src="identity.js"></script></body></html>

diff --git a/diabuddy/BRANDING_AND_MEALS.md b/diabuddy/BRANDING_AND_MEALS.md
@@ -33,3 +33,7 @@ Loading, success/coverage, error and retry states are explicit. Editing input in
 Thirteen meal descriptions were rendered and checked, including all four requested examples, tofu/rice/mushrooms, beef tacos, lentil soup, banana/blueberry oats, spinach/cheese omelette, shrimp noodles, chicken curry, an unknown dish and a partial truffle-pasta illustration. Pixel comparisons verify changes to sauce, toppings and sides change artwork rather than only a label. The images above are actual Canvas renders, not browser screenshots.
 
 Full desktop/mobile CSS layout, real touch devices and screen-reader checks remain manual: browser control is unavailable in this environment. Before merging, review at 320/390/768/1440 px, use keyboard navigation, open PIN/modals, and share a meal while the pet walks to its table. Existing simulated location/app reminders remain simulated; this update adds no device monitoring. This branch does not publish or change the original Site, its audience, runtime secrets or the separate review Site.
+
+## Sunroom palette follow-up
+
+The review branch includes latest main `f541f80` and its parent guidance. UI backgrounds now use buttery yellow and light leaf green, with olive text and green action buttons. The original scene rendering, logo and arcade surfaces use coordinated warm green/yellow accents. Accent food, water and puzzle colors remain distinguishable. The shared contrast checks and full regression suite pass. The separate private preview is refreshed; main and the original published Site are not changed.
